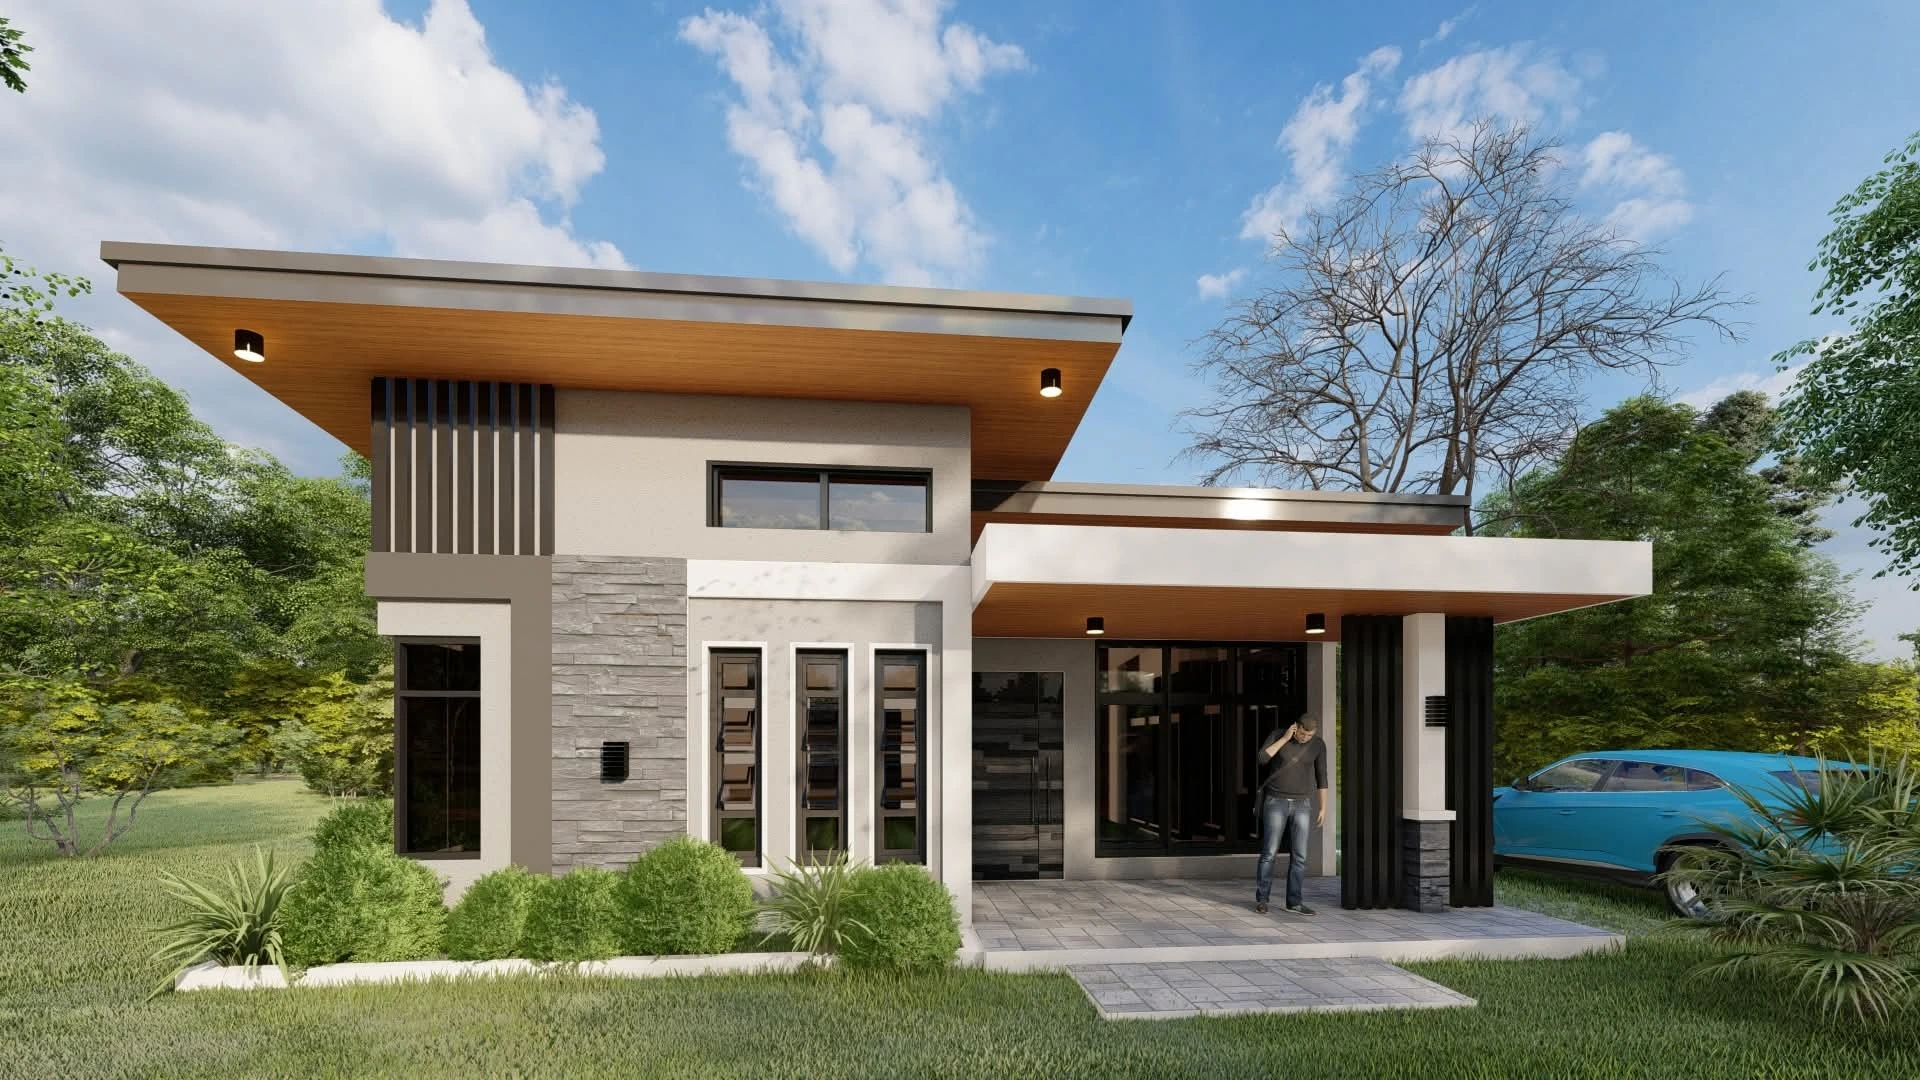
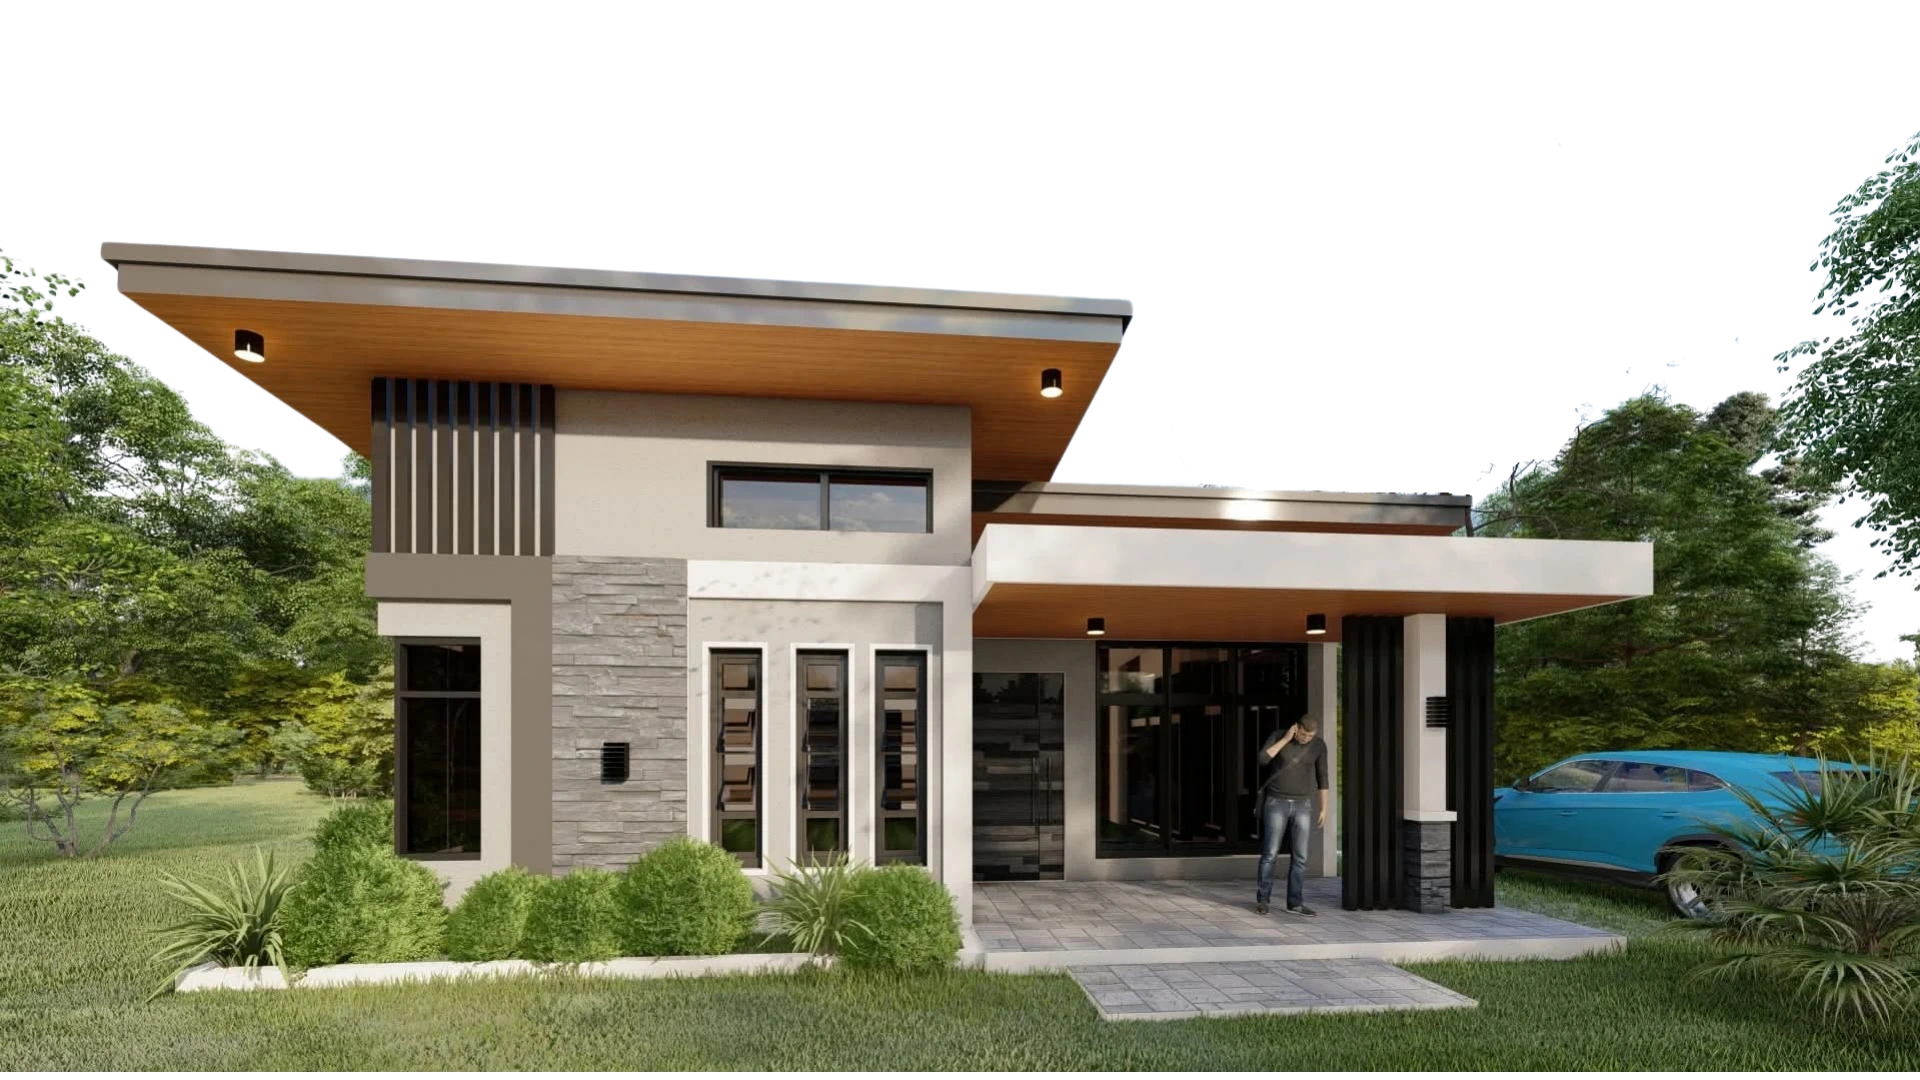
Refactor sidebar padding and revamp homepage

diff --git a/resources/views/welcome.blade.php b/resources/views/welcome.blade.php
@@ -1,35 +1,34 @@
 <x-studio-layout title="Home | RJ DESIGN STUDIO">
     <main class="relative min-h-screen">
         <!-- Hero Section -->
-        <header class="relative min-h-screen flex items-center bg-white pt-32 overflow-hidden">
+        <header class="relative min-h-screen flex items-center bg-white pt-24 lg:pt-28 overflow-hidden">
             <div class="absolute top-0 left-0 w-full h-full opacity-5">
                 <div class="absolute top-[-10%] left-[-10%] w-[40%] h-[40%] bg-sky-500 rounded-full blur-[120px]"></div>
                 <div class="absolute bottom-[-10%] right-[-10%] w-[40%] h-[40%] bg-sky-200 rounded-full blur-[120px]"></div>
             </div>
 
-            <div class="max-w-7xl mx-auto px-6 w-full grid lg:grid-cols-2 gap-12 items-center relative z-10">
-                <div class="space-y-8">
-                    <h1 class="text-4xl lg:text-7xl font-serif tracking-tight leading-[1.1] text-slate-900">
-                        Built for <br><span class="text-sky-600 italic">Perspective.</span>
-                    </h1>
-                    <p class="text-xl text-slate-500 max-w-lg leading-relaxed font-medium">
-                        Architectural excellence meets structural precision. We design and build modern spaces that redefine living.
-                    </p>
-                    <div class="flex flex-wrap gap-6 pt-4">
-                        <a href="{{ route('portfolio') }}" class="px-10 py-5 bg-slate-900 text-white rounded-2xl font-black uppercase tracking-widest text-[10px] hover:bg-sky-600 hover:translate-y-[-4px] transition-all duration-300 shadow-2xl shadow-slate-900/20">
-                            Explore Works
-                        </a>
-                        <a href="{{ route('services') }}" class="px-10 py-5 bg-white text-slate-900 border border-slate-200 rounded-2xl font-black uppercase tracking-widest text-[10px] hover:border-sky-600 hover:translate-y-[-4px] transition-all duration-300">
-                            Our Services
-                        </a>
+            <div class="max-w-7xl mx-auto px-6 w-full relative z-10 py-12">
+                <!-- Top Row: Giant Title + Description -->
+                <div class="grid grid-cols-1 lg:grid-cols-12 gap-8 items-center mb-16 relative z-10">
+                    <!-- Left Column: Giant Title (Span 8) -->
+                    <div class="lg:col-span-8">
+                        <h1 class="text-5xl md:text-7xl lg:text-[5.5rem] xl:text-[6.5rem] font-sans font-black tracking-tighter leading-[0.85] text-slate-900 uppercase">
+                            Built For <br>
+                            <span class="text-sky-600">Perspective</span>
+                        </h1>
+                    </div>
+
+                    <!-- Right Column: Description Text (Span 4) -->
+                    <div class="lg:col-span-4 pb-2">
+                        <p class="text-sm lg:text-base text-slate-500 leading-relaxed font-medium">
+                            Where architectural vision meets engineering precision. We design and build modern spaces that redefine human-centered living.
+                        </p>
                     </div>
                 </div>
 
-                <div class="relative group">
-                    <div class="aspect-[4/5] rounded-card overflow-hidden shadow-premium rotate-2 group-hover:rotate-0 transition-all duration-1000 border-[12px] border-white relative z-10 bg-slate-50">
-                        <img src="{{ asset('images/home-pic.webp') }}" alt="Modern Architecture" class="w-full h-full object-cover transition-all duration-1000">
-                    </div>
-                    <div class="absolute -inset-4 bg-sky-100 rounded-card -z-0 blur-2xl opacity-50 group-hover:opacity-100 transition-opacity"></div>
+                <!-- Bottom Row: Wide Image Banner overlapping the text -->
+                <div class="relative w-full z-20 -mt-16 md:-mt-28 lg:-mt-40 xl:-mt-48">
+                    <img src="{{ asset('images/home-pic.webp') }}" alt="Modern Architecture" class="w-full h-auto filter drop-shadow-[0_25px_50px_rgba(0,0,0,0.12)]">
                 </div>
             </div>
         </header>

diff --git a/resources/views/layouts/admin.blade.php b/resources/views/layouts/admin.blade.php
@@ -59,7 +59,7 @@
 
         <div class="flex-1 flex flex-col transition-[padding] duration-300"
              id="main-content"
-             :class="sidebarOpen && {{ Auth::check() ? 'true' : 'false' }} ? 'lg:pl-72' : ({{ Auth::check() ? 'true' : 'false' }} ? 'lg:pl-24' : '')">
+             :class="{ 'lg:pl-72': sidebarOpen && {{ Auth::check() ? 'true' : 'false' }}, 'lg:pl-24': !sidebarOpen && {{ Auth::check() ? 'true' : 'false' }} }">
             @auth
             <script>
                 // Pre-apply sidebar padding before Alpine.js initialises to prevent flash

diff --git a/resources/views/components/studio-layout.blade.php b/resources/views/components/studio-layout.blade.php
@@ -53,7 +53,7 @@
             @endauth
 
             <div class="flex-1 flex flex-col"
-                 :class="sidebarOpen && {{ Auth::check() ? 'true' : 'false' }} ? 'lg:pl-72' : ({{ Auth::check() ? 'true' : 'false' }} ? 'lg:pl-24' : '')">
+                 :class="{ 'lg:pl-72': sidebarOpen && {{ Auth::check() ? 'true' : 'false' }}, 'lg:pl-24': !sidebarOpen && {{ Auth::check() ? 'true' : 'false' }} }">
                 
                 @auth
                 <!-- Authenticated Top Navbar -->

diff --git a/resources/views/layouts/app.blade.php b/resources/views/layouts/app.blade.php
@@ -73,7 +73,7 @@
             @endif
 
             <div class="flex-1 flex flex-col"
-                 :class="sidebarOpen && {{ $showSidebar ? 'true' : 'false' }} ? 'lg:pl-72' : ({{ $showSidebar ? 'true' : 'false' }} ? 'lg:pl-24' : '')">
+                 :class="{ 'lg:pl-72': sidebarOpen && {{ $showSidebar ? 'true' : 'false' }}, 'lg:pl-24': !sidebarOpen && {{ $showSidebar ? 'true' : 'false' }} }">
                 @include('layouts.navigation')
 
                 @auth
